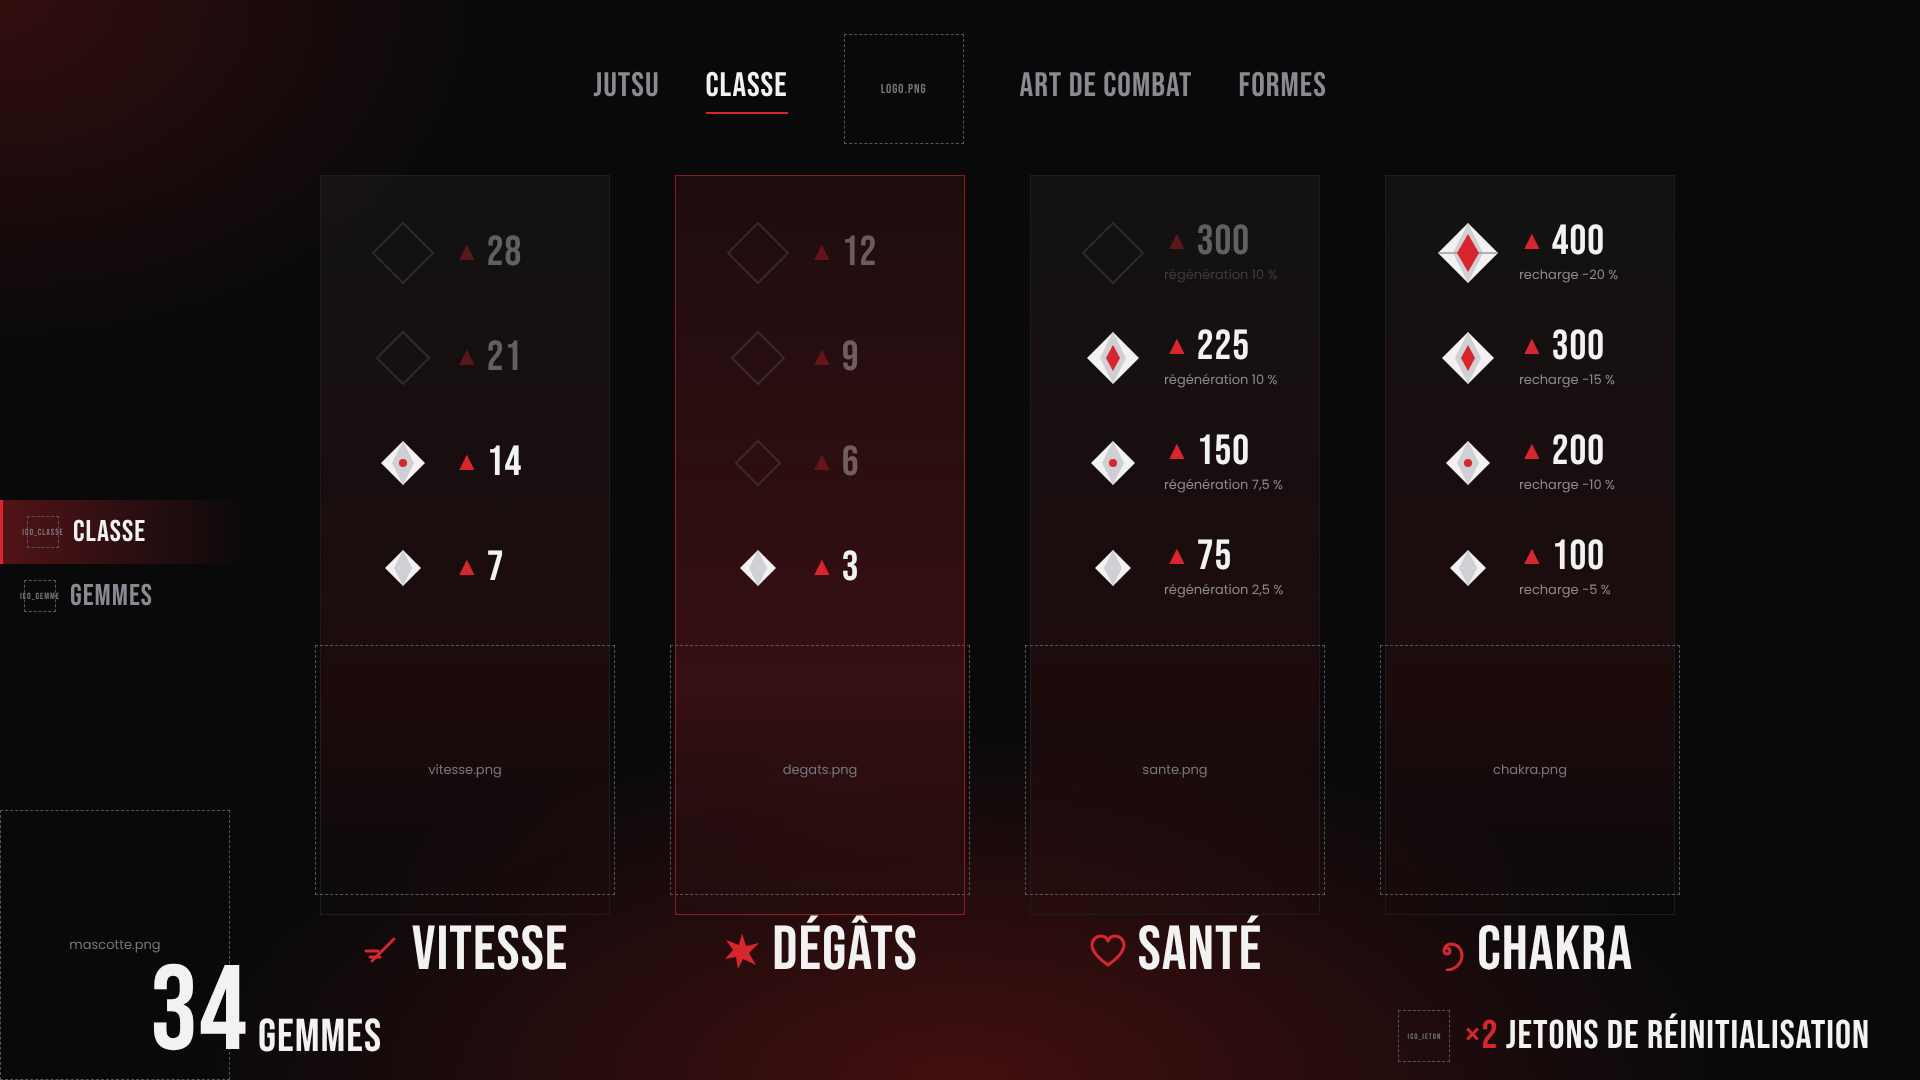
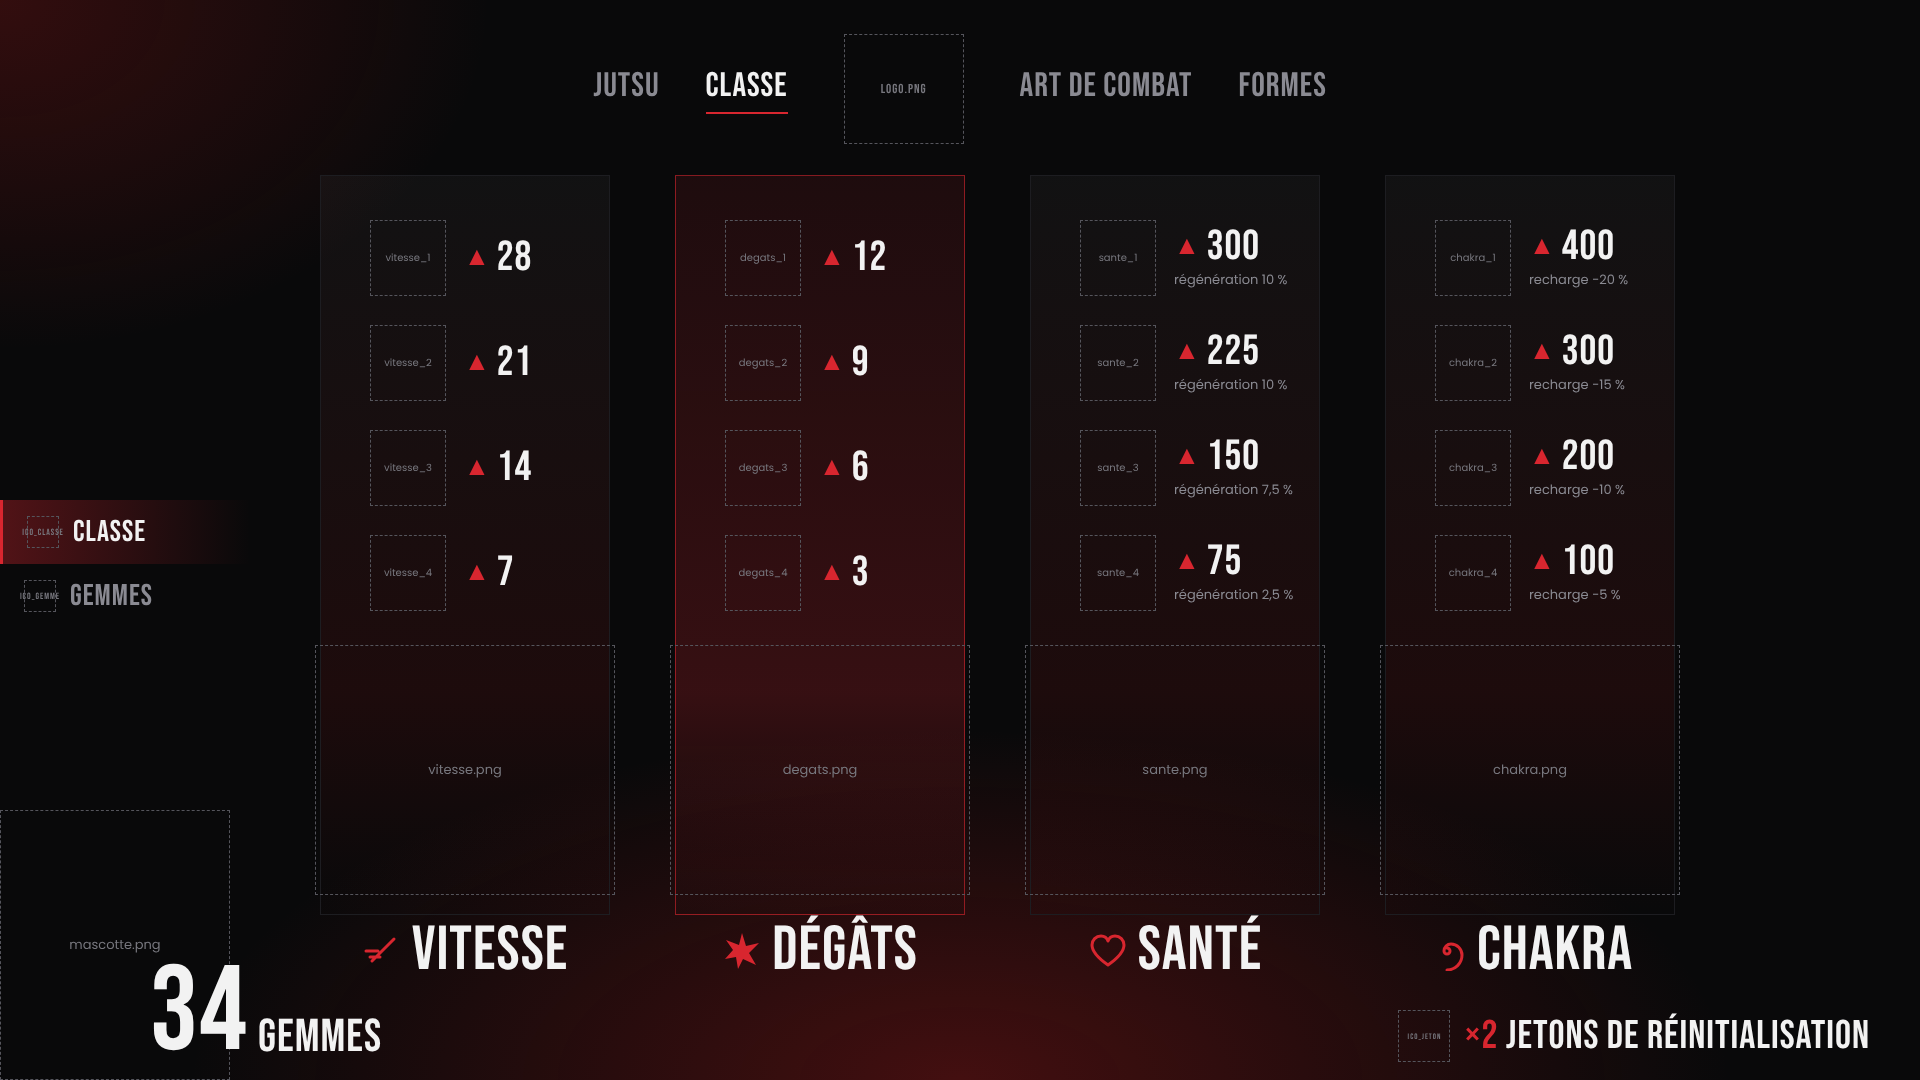
F4 Classe : emplacements d'icones par technique, retrait de la maquette paliers
Claude-Session: https://claude.ai/code/session_01WNq6bnfK84GAyjbejrSsQj

diff --git a/maquettes/classe/maquette_f4_classe.html b/maquettes/classe/maquette_f4_classe.html
@@ -31,11 +31,10 @@ body{width:1920px;height:1080px;overflow:hidden;position:relative;font-family:Po
 .col:before{content:"";position:absolute;inset:0 20px 80px;background:linear-gradient(180deg,rgba(255,255,255,.035),rgba(176,26,26,.12) 70%,transparent);border:1px solid #1d1d21}
 .col.on:before{border-color:rgba(216,38,47,.6);background:linear-gradient(180deg,rgba(216,38,47,.10),rgba(216,38,47,.22) 70%,transparent)}
 .palier{position:absolute;left:70px;display:flex;align-items:center;gap:18px}
-.palier svg{width:66px;height:66px}
+.palier .gem{position:relative;width:76px;height:76px;font-size:10px}
 .val{font-size:42px;line-height:1;display:flex;align-items:center;gap:6px}
 .val i{font-style:normal;color:var(--rougeV);font-size:26px}
 .sous{font-size:13px;color:var(--gris);margin-top:2px}
-.lock{opacity:.35}
 .illu{left:15px;top:470px;width:300px;height:250px}
 .nom{position:absolute;left:0;right:0;top:738px;text-align:center;font-size:62px;display:flex;justify-content:center;align-items:center;gap:10px}
 .nom svg{width:40px;height:40px}
@@ -61,52 +60,39 @@ body{width:1920px;height:1080px;overflow:hidden;position:relative;font-family:Po
   <div><span class="slot ic">ico_gemme<img src="images/ico_gemme.png" onerror="this.className='ko'"></span>GEMMES</div>
 </div>
 
-<!-- gemme TFJ : losange a facettes, plein = debloque, contour = verrouille -->
-<svg width="0" height="0" style="position:absolute">
-  <defs>
-    <g id="g4"><path d="M33 3 L63 33 L33 63 L3 33 Z" fill="#f2f2f2"/><path d="M33 3 L48 33 L33 63 L18 33 Z" fill="#cfcfd4"/><path d="M3 33 L63 33" stroke="#9a9aa0" stroke-width="1.5"/><path d="M33 14 L44 33 L33 52 L22 33 Z" fill="#d8262f"/></g>
-    <g id="g3"><path d="M33 7 L59 33 L33 59 L7 33 Z" fill="#f2f2f2"/><path d="M33 7 L46 33 L33 59 L20 33 Z" fill="#cfcfd4"/><path d="M33 20 L40 33 L33 46 L26 33 Z" fill="#d8262f"/></g>
-    <g id="g2"><path d="M33 11 L55 33 L33 55 L11 33 Z" fill="#f2f2f2"/><path d="M33 11 L44 33 L33 55 L22 33 Z" fill="#cfcfd4"/><circle cx="33" cy="33" r="4" fill="#d8262f"/></g>
-    <g id="g1"><path d="M33 15 L51 33 L33 51 L15 33 Z" fill="#f2f2f2"/><path d="M33 15 L42 33 L33 51 L24 33 Z" fill="#cfcfd4"/></g>
-    <g id="v4"><path d="M33 3 L63 33 L33 63 L3 33 Z" fill="none" stroke="#5a5a62" stroke-width="2"/></g>
-    <g id="v3"><path d="M33 7 L59 33 L33 59 L7 33 Z" fill="none" stroke="#5a5a62" stroke-width="2"/></g>
-    <g id="v2"><path d="M33 11 L55 33 L33 55 L11 33 Z" fill="none" stroke="#5a5a62" stroke-width="2"/></g>
-  </defs>
-</svg>
-
-<!-- 4 colonnes : palier IV en haut, palier I en bas (comme le F4 actuel) -->
+<!-- 4 colonnes de 4 techniques chacune (icones fournies : <stat>_1 en haut ... <stat>_4 en bas) -->
 <div class="col" style="left:300px">
-  <div class="palier lock" style="top:45px"><svg viewBox="0 0 66 66"><use href="#v4"/></svg><div><div class="val t"><i>▲</i>28</div></div></div>
-  <div class="palier lock" style="top:150px"><svg viewBox="0 0 66 66"><use href="#v3"/></svg><div><div class="val t"><i>▲</i>21</div></div></div>
-  <div class="palier" style="top:255px"><svg viewBox="0 0 66 66"><use href="#g2"/></svg><div><div class="val t"><i>▲</i>14</div></div></div>
-  <div class="palier" style="top:360px"><svg viewBox="0 0 66 66"><use href="#g1"/></svg><div><div class="val t"><i>▲</i>7</div></div></div>
+  <div class="palier" style="top:45px"><span class="slot gem">vitesse_1<img src="images/vitesse_1.png" onerror="this.className='ko'"></span><div><div class="val t"><i>▲</i>28</div></div></div>
+  <div class="palier" style="top:150px"><span class="slot gem">vitesse_2<img src="images/vitesse_2.png" onerror="this.className='ko'"></span><div><div class="val t"><i>▲</i>21</div></div></div>
+  <div class="palier" style="top:255px"><span class="slot gem">vitesse_3<img src="images/vitesse_3.png" onerror="this.className='ko'"></span><div><div class="val t"><i>▲</i>14</div></div></div>
+  <div class="palier" style="top:360px"><span class="slot gem">vitesse_4<img src="images/vitesse_4.png" onerror="this.className='ko'"></span><div><div class="val t"><i>▲</i>7</div></div></div>
   <div class="slot illu">vitesse.png<img src="images/vitesse.png" onerror="this.className='ko'"></div>
   <div class="nom t"><svg viewBox="0 0 40 40" fill="none" stroke="#d8262f" stroke-width="3" stroke-linecap="round"><path d="M10 30 L32 8 M4 20 L16 20 M8 26 L18 26"/></svg>VITESSE</div>
 </div>
 
 <div class="col on" style="left:655px">
-  <div class="palier lock" style="top:45px"><svg viewBox="0 0 66 66"><use href="#v4"/></svg><div><div class="val t"><i>▲</i>12</div></div></div>
-  <div class="palier lock" style="top:150px"><svg viewBox="0 0 66 66"><use href="#v3"/></svg><div><div class="val t"><i>▲</i>9</div></div></div>
-  <div class="palier lock" style="top:255px"><svg viewBox="0 0 66 66"><use href="#v2"/></svg><div><div class="val t"><i>▲</i>6</div></div></div>
-  <div class="palier" style="top:360px"><svg viewBox="0 0 66 66"><use href="#g1"/></svg><div><div class="val t"><i>▲</i>3</div></div></div>
+  <div class="palier" style="top:45px"><span class="slot gem">degats_1<img src="images/degats_1.png" onerror="this.className='ko'"></span><div><div class="val t"><i>▲</i>12</div></div></div>
+  <div class="palier" style="top:150px"><span class="slot gem">degats_2<img src="images/degats_2.png" onerror="this.className='ko'"></span><div><div class="val t"><i>▲</i>9</div></div></div>
+  <div class="palier" style="top:255px"><span class="slot gem">degats_3<img src="images/degats_3.png" onerror="this.className='ko'"></span><div><div class="val t"><i>▲</i>6</div></div></div>
+  <div class="palier" style="top:360px"><span class="slot gem">degats_4<img src="images/degats_4.png" onerror="this.className='ko'"></span><div><div class="val t"><i>▲</i>3</div></div></div>
   <div class="slot illu">degats.png<img src="images/degats.png" onerror="this.className='ko'"></div>
   <div class="nom t"><svg viewBox="0 0 40 40" fill="#d8262f"><path d="M20 2 L24 15 L37 12 L27 22 L34 34 L21 28 L16 38 L14 26 L3 28 L11 19 L4 9 L17 14 Z"/></svg>DÉGÂTS</div>
 </div>
 
 <div class="col" style="left:1010px">
-  <div class="palier lock" style="top:45px"><svg viewBox="0 0 66 66"><use href="#v4"/></svg><div><div class="val t"><i>▲</i>300</div><div class="sous">régénération 10 %</div></div></div>
-  <div class="palier" style="top:150px"><svg viewBox="0 0 66 66"><use href="#g3"/></svg><div><div class="val t"><i>▲</i>225</div><div class="sous">régénération 10 %</div></div></div>
-  <div class="palier" style="top:255px"><svg viewBox="0 0 66 66"><use href="#g2"/></svg><div><div class="val t"><i>▲</i>150</div><div class="sous">régénération 7,5 %</div></div></div>
-  <div class="palier" style="top:360px"><svg viewBox="0 0 66 66"><use href="#g1"/></svg><div><div class="val t"><i>▲</i>75</div><div class="sous">régénération 2,5 %</div></div></div>
+  <div class="palier" style="top:45px"><span class="slot gem">sante_1<img src="images/sante_1.png" onerror="this.className='ko'"></span><div><div class="val t"><i>▲</i>300</div><div class="sous">régénération 10 %</div></div></div>
+  <div class="palier" style="top:150px"><span class="slot gem">sante_2<img src="images/sante_2.png" onerror="this.className='ko'"></span><div><div class="val t"><i>▲</i>225</div><div class="sous">régénération 10 %</div></div></div>
+  <div class="palier" style="top:255px"><span class="slot gem">sante_3<img src="images/sante_3.png" onerror="this.className='ko'"></span><div><div class="val t"><i>▲</i>150</div><div class="sous">régénération 7,5 %</div></div></div>
+  <div class="palier" style="top:360px"><span class="slot gem">sante_4<img src="images/sante_4.png" onerror="this.className='ko'"></span><div><div class="val t"><i>▲</i>75</div><div class="sous">régénération 2,5 %</div></div></div>
   <div class="slot illu">sante.png<img src="images/sante.png" onerror="this.className='ko'"></div>
   <div class="nom t"><svg viewBox="0 0 40 40" fill="none" stroke="#d8262f" stroke-width="3" stroke-linejoin="round"><path d="M20 34 C10 27 4 21 4 14 C4 9 8 5 13 5 C16 5 19 7 20 10 C21 7 24 5 27 5 C32 5 36 9 36 14 C36 21 30 27 20 34 Z"/></svg>SANTÉ</div>
 </div>
 
 <div class="col" style="left:1365px">
-  <div class="palier" style="top:45px"><svg viewBox="0 0 66 66"><use href="#g4"/></svg><div><div class="val t"><i>▲</i>400</div><div class="sous">recharge −20 %</div></div></div>
-  <div class="palier" style="top:150px"><svg viewBox="0 0 66 66"><use href="#g3"/></svg><div><div class="val t"><i>▲</i>300</div><div class="sous">recharge −15 %</div></div></div>
-  <div class="palier" style="top:255px"><svg viewBox="0 0 66 66"><use href="#g2"/></svg><div><div class="val t"><i>▲</i>200</div><div class="sous">recharge −10 %</div></div></div>
-  <div class="palier" style="top:360px"><svg viewBox="0 0 66 66"><use href="#g1"/></svg><div><div class="val t"><i>▲</i>100</div><div class="sous">recharge −5 %</div></div></div>
+  <div class="palier" style="top:45px"><span class="slot gem">chakra_1<img src="images/chakra_1.png" onerror="this.className='ko'"></span><div><div class="val t"><i>▲</i>400</div><div class="sous">recharge −20 %</div></div></div>
+  <div class="palier" style="top:150px"><span class="slot gem">chakra_2<img src="images/chakra_2.png" onerror="this.className='ko'"></span><div><div class="val t"><i>▲</i>300</div><div class="sous">recharge −15 %</div></div></div>
+  <div class="palier" style="top:255px"><span class="slot gem">chakra_3<img src="images/chakra_3.png" onerror="this.className='ko'"></span><div><div class="val t"><i>▲</i>200</div><div class="sous">recharge −10 %</div></div></div>
+  <div class="palier" style="top:360px"><span class="slot gem">chakra_4<img src="images/chakra_4.png" onerror="this.className='ko'"></span><div><div class="val t"><i>▲</i>100</div><div class="sous">recharge −5 %</div></div></div>
   <div class="slot illu">chakra.png<img src="images/chakra.png" onerror="this.className='ko'"></div>
   <div class="nom t"><svg viewBox="0 0 40 40" fill="none" stroke="#d8262f" stroke-width="3" stroke-linecap="round"><path d="M20 20 m0 -3 a3 3 0 1 1 -3 3 a7 7 0 0 1 7 -7 a11 11 0 0 1 11 11 a15 15 0 0 1 -15 15"/></svg>CHAKRA</div>
 </div>
